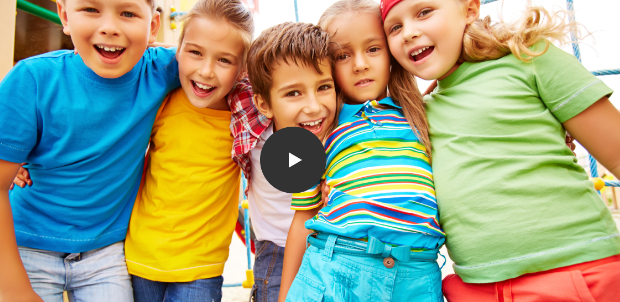
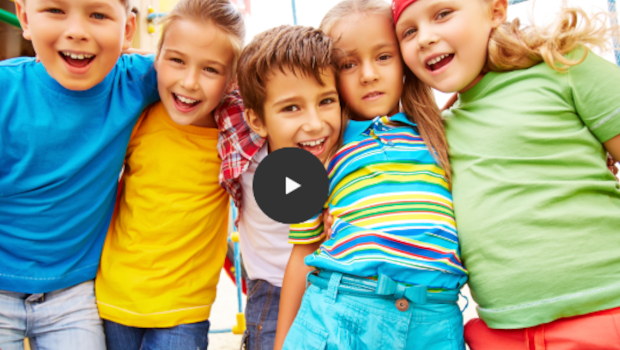
commited on 22august2022 - minor changes in 'galery' section. added a touch of perfection to the placement of the ellipses, cancelled their zero opacity and made them visible up to the lowest possible resolution. a couple had to be displaced. looks a bit nicer

diff --git a/style.css b/style.css
@@ -771,7 +771,7 @@ wrapper {
    margin-top: 5%;
    margin-right: auto;
    margin-left: auto;
-   border:  5px solid;
+   border:rgba(0, 197, 168, 1)  5px solid;
    border-radius: 30px;
    overflow: hidden;
 
@@ -1464,9 +1464,9 @@ h3 {
       padding-top: 250px;
    } */
 
-   .galery_ellipse9, .galery_ellipse10  {
+   /* .galery_ellipse9, .galery_ellipse10  {
       opacity: 0;
-   } 
+   }  */
 
    .slider_container {
       max-width: 500px;
@@ -1554,9 +1554,9 @@ h3 {
       transform: translateX(150px);
    }
 
-   .galery_ellipse5, .galery_ellipse13, .galery_ellipse11  {
+   /* .galery_ellipse5, .galery_ellipse13, .galery_ellipse11  {
       opacity: 0;
-   } 
+   }  */
 
    
    
@@ -1589,6 +1589,14 @@ h3 {
 
 /*----------------AT THE RESOLUTION LESS THAN 1200px----------------------------*/
 @media (max-width: 1200px) {
+   .galery_ellipse13 {
+      transform: translate(7vw, 13vw);
+   }
+
+   .galery_ellipse5 {
+      transform: translate(0vw, 10vw);
+   }
+   
    .header__rightMenu {
       width: 27%;
       margin-right: 4%;
@@ -1602,13 +1610,18 @@ h3 {
 }
 
 /*-----------------------------------------------------------------------------------------------*/
-/*------------------AT THE RESOLUTION LESS THAN 1000px----------------------------*/
-@media (max-width: 1000px) {
-   
+/*------------------AT THE RESOLUTION LESS THAN 1006px----------------------------*/
+@media (max-width: 1006px) {
    .slider__navigation__container {
       padding-left: 25%;
       padding-right: 25%;
    }
+}
+
+/*------------------AT THE RESOLUTION LESS THAN 1000px----------------------------*/
+@media (max-width: 1000px) {
+   
+   
    
    /* .firstScreen__flowers__flower1 {
       transform: translateX(-200px);
@@ -1629,9 +1642,9 @@ h3 {
       transform: translateX(250px);
    }
 
-   .galery_ellipse12, .galery_ellipse3, .galery_ellipse8 {
+   /* .galery_ellipse12, .galery_ellipse3, .galery_ellipse8 {
       opacity: 0;
-   }
+   } */
 
    .action-next {
     
@@ -2212,14 +2225,14 @@ h3 {
       opacity: 1.0;
       width: 29px;
       height: 39px;
-      transform: scale(1.8);
+      transform: scale(1.2);
    }
 
    .galery_ellipse12 {
       opacity: 1.0;
       width: 29px;
       height: 39px;
-      transform: translate(0vw, -75vw) scale(1.8);
+      transform: translate(0vw, -75vw) scale(1.2);
    }
 
    .galery_ellipse5 {
@@ -2386,6 +2399,11 @@ h3 {
 /*-------------------------AT RESOLUTION UNDER 400px-----------------------------------*/
 @media (max-width: 400px) {
 
+  .galery_ellipse10, .galery_ellipse3, .galery_ellipse8, .galery_ellipse9 {
+   opacity: 0;
+  }
+  
+  
    .editorial__upper {
       height: 107vw;
    }
